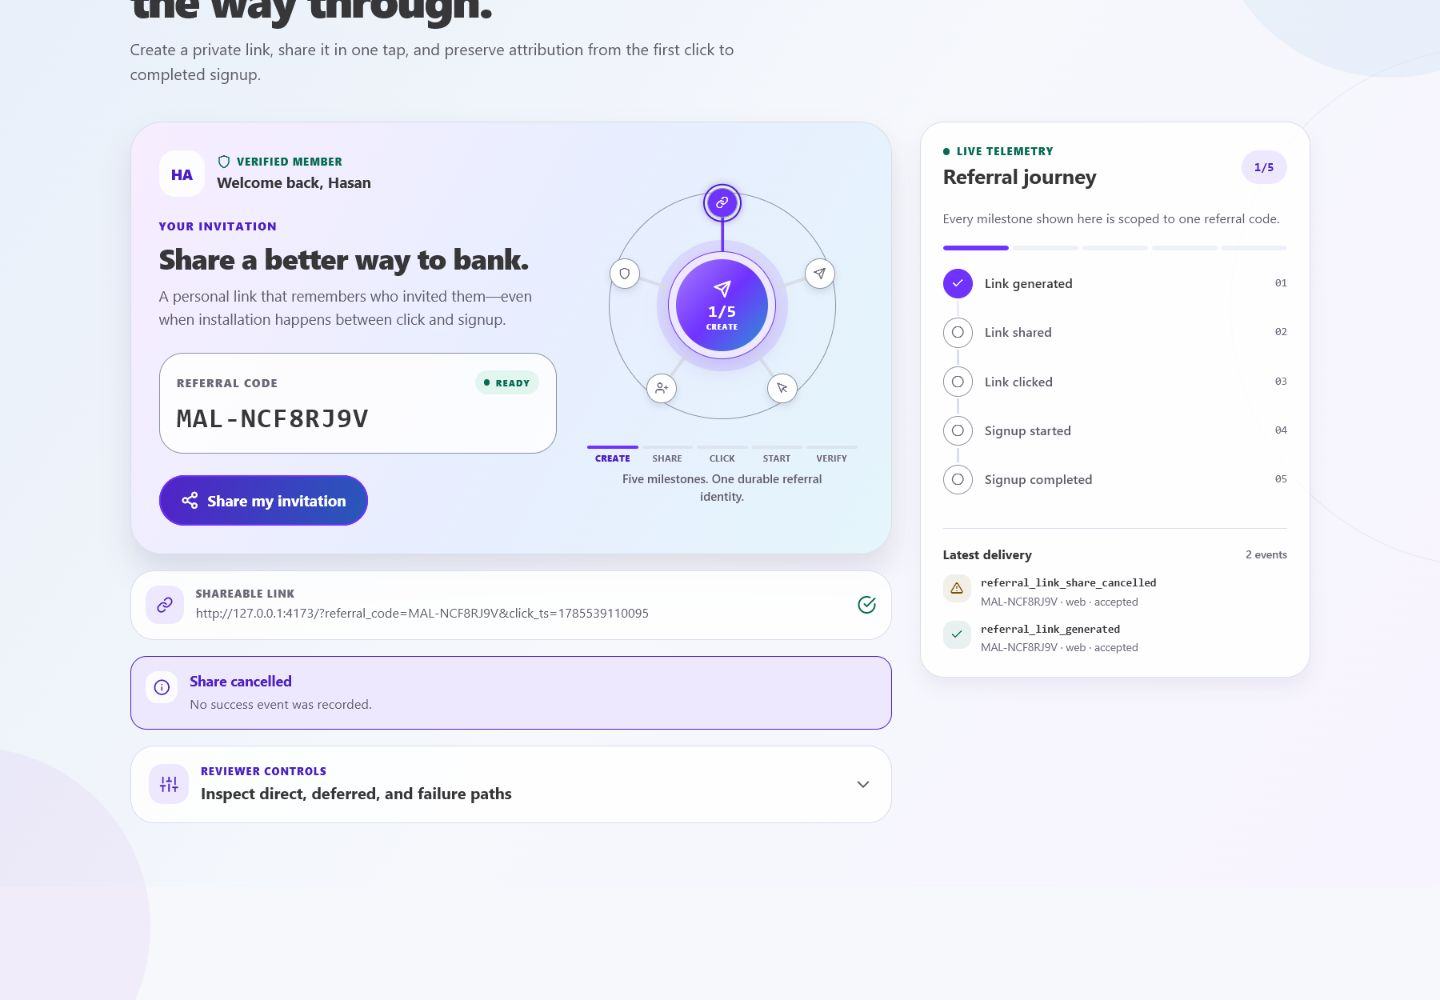
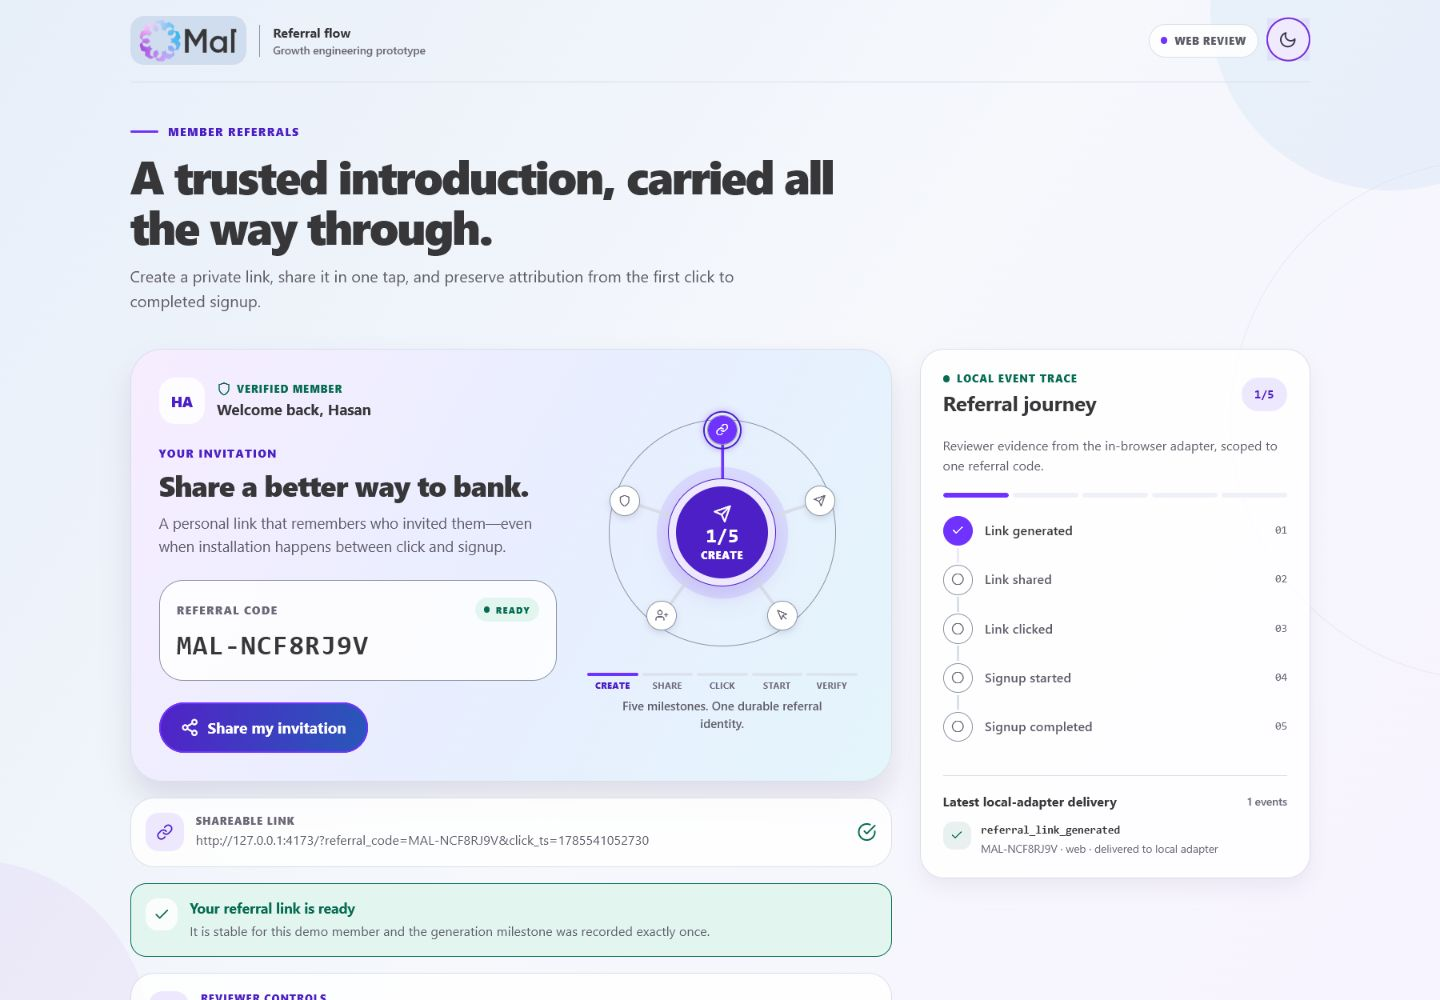
fix: close UI audit gaps

diff --git a/src/components/ReferralOrbit.tsx b/src/components/ReferralOrbit.tsx
@@ -1,5 +1,4 @@
 import { Feather } from '@expo/vector-icons';
-import { LinearGradient } from 'expo-linear-gradient';
 import { useEffect, useMemo, useState } from 'react';
 import { Animated, StyleSheet, Text, View } from 'react-native';
 
@@ -39,7 +38,7 @@ export function ReferralOrbit({
   status = 'default',
   success = false,
 }: ReferralOrbitProps): React.JSX.Element {
-  const { colors } = useAppTheme();
+  const { colors, isDark } = useAppTheme();
   const reducedMotion = useReducedMotion();
   const {
     acceptedStages,
@@ -166,8 +165,10 @@ export function ReferralOrbit({
       : success
         ? 'Verified'
         : currentLabel;
-  const stateColor = hasAttention ? colors.danger : colors.accent;
+  const stateColor = hasAttention ? colors.danger : colors.accentStrong;
   const stateSoft = hasAttention ? colors.dangerSoft : colors.accentSoft;
+  const coreForeground = isDark ? colors.background : colors.white;
+  const coreStateLabel = status === 'attention' ? 'DETAILS' : stateLabel.toUpperCase();
   const entryScale = entry.interpolate({ inputRange: [0, 1], outputRange: [0.9, 1] });
   const haloScale = progress.interpolate({
     inputRange: [0, STEP_COUNT],
@@ -267,35 +268,29 @@ export function ReferralOrbit({
             },
           ]}
         >
-          <LinearGradient
-            colors={
-              hasAttention
-                ? [colors.danger, colors.danger]
-                : [colors.brandLilac, colors.accent, colors.brandBlue]
-            }
-            start={{ x: 0.05, y: 0.1 }}
-            end={{ x: 0.95, y: 0.9 }}
+          <View
             style={[
               styles.core,
               {
                 width: size * 0.34,
                 height: size * 0.34,
                 borderRadius: size * 0.17,
+                backgroundColor: stateColor,
               },
             ]}
           >
             <Feather
               name={status === 'rejected' ? 'shield-off' : status === 'attention' ? 'alert-circle' : success ? 'check' : 'send'}
               size={compact ? 15 : 18}
-              color={colors.white}
+              color={coreForeground}
             />
-            <Text style={[styles.coreCount, compact && styles.coreCountCompact, { color: colors.white }]}>
+            <Text style={[styles.coreCount, compact && styles.coreCountCompact, { color: coreForeground }]}>
               {completedCount}/5
             </Text>
-            <Text numberOfLines={1} style={[styles.coreLabel, compact && styles.coreLabelCompact, { color: colors.white }]}>
-              {stateLabel.toUpperCase()}
+            <Text numberOfLines={1} style={[styles.coreLabel, compact && styles.coreLabelCompact, { color: coreForeground }]}>
+              {coreStateLabel}
             </Text>
-          </LinearGradient>
+          </View>
         </View>
 
         {nodes.map((node, index) => {
@@ -426,21 +421,21 @@ const styles = StyleSheet.create({
   core: { alignItems: 'center', justifyContent: 'center', gap: 1, overflow: 'hidden' },
   coreCount: {
     fontFamily: typography.mono,
-    fontSize: 17,
-    lineHeight: 20,
+    fontSize: 20,
+    lineHeight: 23,
     fontWeight: '800',
     fontVariant: ['tabular-nums'],
   },
-  coreCountCompact: { fontSize: 14, lineHeight: 17 },
+  coreCountCompact: { fontSize: 17, lineHeight: 20 },
   coreLabel: {
     maxWidth: '88%',
     fontFamily: typography.family,
-    fontSize: 7.5,
-    lineHeight: 10,
+    fontSize: 10.5,
+    lineHeight: 13,
     fontWeight: '800',
-    letterSpacing: 0.55,
+    letterSpacing: 0.4,
   },
-  coreLabelCompact: { fontSize: 6.5, lineHeight: 8, letterSpacing: 0.35 },
+  coreLabelCompact: { fontSize: 10, lineHeight: 12, letterSpacing: 0.25 },
   node: {
     position: 'absolute',
     borderWidth: 1,

diff --git a/src/screens/SuccessScreen.tsx b/src/screens/SuccessScreen.tsx
@@ -40,23 +40,19 @@ export function SuccessScreen({ route, navigation }: Props): React.JSX.Element {
   const restart = async () => {
     setIsResetting(true);
     setResetError(null);
-    try {
-      const result = await commitDemoReset(
-        () => coordinator.resetDemoState(),
-        () => {
-          clearLedger();
-          navigation.reset({
-            index: 0,
-            routes: [{ name: 'Invite' }],
-          });
-        },
-      );
-      if (!result.ok) {
-        setResetError({ committed: result.committed, message: result.message });
-      }
-    } finally {
-      setIsResetting(false);
-    }
+    const result = await commitDemoReset(
+      () => coordinator.resetDemoState(),
+      () => {
+        clearLedger();
+        navigation.reset({
+          index: 0,
+          routes: [{ name: 'Invite' }],
+        });
+      },
+    );
+    if (result.ok) return;
+    setIsResetting(false);
+    setResetError({ committed: result.committed, message: result.message });
   };
 
   return (
@@ -108,19 +104,21 @@ export function SuccessScreen({ route, navigation }: Props): React.JSX.Element {
                   <Text style={[styles.noteText, { color: colors.inkMuted }]}>Production rewards belong to an idempotent backend ledger—not the mobile client.</Text>
                 </View>
                 {resetError ? (
-                  <StatusBanner
-                    tone="error"
-                    title={
-                      resetError.committed
-                        ? 'Reset committed; refresh incomplete'
-                        : 'Reset could not be committed'
-                    }
-                    message={
-                      resetError.committed
-                        ? `${resetError.message} Reopen the referral lab to refresh the screen.`
-                        : `${resetError.message} Your completed receipt remains available; try again.`
-                    }
-                  />
+                  <View style={styles.resetError}>
+                    <StatusBanner
+                      tone="error"
+                      title={
+                        resetError.committed
+                          ? 'Reset committed; refresh incomplete'
+                          : 'Reset could not be committed'
+                      }
+                      message={
+                        resetError.committed
+                          ? `${resetError.message} Reopen the referral lab to refresh the screen.`
+                          : `${resetError.message} Your completed receipt remains available; try again.`
+                      }
+                    />
+                  </View>
                 ) : null}
                 <Button label="Run the flow again" icon="refresh-cw" loading={isResetting} fullWidth onPress={() => void restart()} />
               </LinearGradient>
@@ -206,5 +204,6 @@ const styles = StyleSheet.create({
   note: { width: '100%', borderWidth: 1, borderRadius: radii.lg, padding: 15, flexDirection: 'row', gap: 12, alignItems: 'center' },
   noteIcon: { width: 38, height: 38, borderRadius: 13, alignItems: 'center', justifyContent: 'center' },
   noteText: { flex: 1, fontFamily: typography.family, fontSize: 13, lineHeight: 20 },
+  resetError: { width: '100%' },
   mobileTrace: { gap: 12 },
 });

diff --git a/src/screens/InviteScreen.tsx b/src/screens/InviteScreen.tsx
@@ -143,37 +143,29 @@ export function InviteScreen({ navigation }: Props): React.JSX.Element {
 
   const reset = async () => {
     setIsResetting(true);
-    try {
-      const result = await commitDemoReset(
-        () => coordinator.resetDemoState(),
-        () => {
-          clearLedger();
-          setReferral(null);
-          setNotice({
-            tone: 'info',
-            title: 'Test state cleared',
-            message: 'Attribution, milestone deduplication, and the visible event trace were reset.',
-          });
-          navigation.reset({
-            index: 0,
-            routes: [{ name: 'Invite' }],
-          });
-        },
-      );
-      if (!result.ok) {
-        setNotice({
-          tone: 'error',
-          title: result.committed
-            ? 'Reset committed; refresh incomplete'
-            : 'Reset could not be committed',
-          message: result.committed
-            ? `${result.message} Reopen the referral lab to refresh the screen.`
-            : `${result.message} Your current journey is still available; try again.`,
+    setNotice(null);
+    const result = await commitDemoReset(
+      () => coordinator.resetDemoState(),
+      () => {
+        clearLedger();
+        setReferral(null);
+        navigation.reset({
+          index: 0,
+          routes: [{ name: 'Invite' }],
         });
-      }
-    } finally {
-      setIsResetting(false);
-    }
+      },
+    );
+    if (result.ok) return;
+    setIsResetting(false);
+    setNotice({
+      tone: 'error',
+      title: result.committed
+        ? 'Reset committed; refresh incomplete'
+        : 'Reset could not be committed',
+      message: result.committed
+        ? `${result.message} Reopen the referral lab to refresh the screen.`
+        : `${result.message} Your current journey is still available; try again.`,
+    });
   };
 
   return (

diff --git a/docs/ARCHITECTURE.md b/docs/ARCHITECTURE.md
@@ -340,7 +340,7 @@ Accepted required-event records are also retained as a bounded presentation snap
 
 The deterministic regression suite proves that reset followed by fresh generation, share, and deferred intake routes with the same newly generated code and exactly the accepted generated/shared/clicked milestones (`3/5`). Separate post-reset direct and invalid cases prove correct routing and non-routing. Reset rotates every demo namespace, including generated codes, journey identity, callback registry, accepted milestones, outbox, signup receipts, accepted outcome, and buffered route. Tests assert that delayed old writes and seeded inactive namespaces are physically removed. Pointer rejection, never-settling initial read/write, stale startup migration/scavenging, same-turn retry overlap, slow pointer plus hung post-commit cleanup, and late native-write repair are exercised against the real storage adapter mock with simulated cold reload.
 
-Loading, sharing, invalid-link, onboarding, and completed UI states were exercised manually in the web reviewer build. The simulated deferred full-flow passed at `3/5` on onboarding and `5/5` after completion. Automated cold-restart coverage proves that persisted accepted milestones hydrate the matching restored journey without re-emitting analytics and exclude a same-code/different-fingerprint completion. Responsive checks covered 375 x 812, 812 x 375, and 1440 x 1000 layouts in light and dark themes. Browser reduced-motion emulation verified immediate content visibility, static state indicators, and disabled route animation. No equivalent native UI/device run is claimed.
+Loading, sharing, invalid-link, onboarding, and completed UI states were exercised manually in the web reviewer build. The combined simulated deferred flow passed at `3/5` on onboarding and `5/5` after completion. A standalone deferred callback separately passed at `1/5 · Click`; signup start and completion advanced that invitee-side trace to `3/5 · Verified`. Restart was verified to reset persistence, the visible ledger, and navigation together, returning a remounted Invite route at `0/5` without a stale code or reset warning. Automated cold-restart coverage proves that accepted milestones hydrate only the matching restored journey without re-emitting analytics. Responsive checks covered 375 x 812, 768 x 1024, 812 x 375, 1440 x 1000, and a 720px CSS viewport as a 1440-at-200%-zoom reflow proxy, in light and dark themes. Reduced-motion branches were source-verified for immediate state values and disabled route animation; final OS/browser-setting emulation and native-device UI verification remain manual checks. Automated orbit-state and reset-commit coverage is included; broader component/accessibility automation remains a production follow-up.
 
 The repository verification gate is:
 

diff --git a/design-system/mal-referral-flow/MASTER.md b/design-system/mal-referral-flow/MASTER.md
@@ -48,6 +48,8 @@ Primary CTA gradient: `#5222C8 → #2858B9` in light mode and `#633ED6 → #2854
 
 The **referral orbit** uses five nodes mapped to the five required funnel events. A segmented inner rosette references Mal's emblem without replacing or modifying the official lockup. An identity carrier lands on the latest accepted milestone while radial spokes and labels illuminate from the actual accepted event set. The UI never infers prefix events from a count: a standalone deferred callback is `1/5 · Click`, with Create and Share left inactive because those occur on the referrer's device.
 
+The orbit center uses a solid semantic pair rather than a multicolor text backdrop: deep violet or danger with white in light mode, and light violet or danger with charcoal in dark mode. Count text is 17–20px and status text is 10–10.5px; every center pairing must measure at least 4.5:1.
+
 ## Motion
 
 - Press feedback: 140ms scale to 0.975, spring release.
